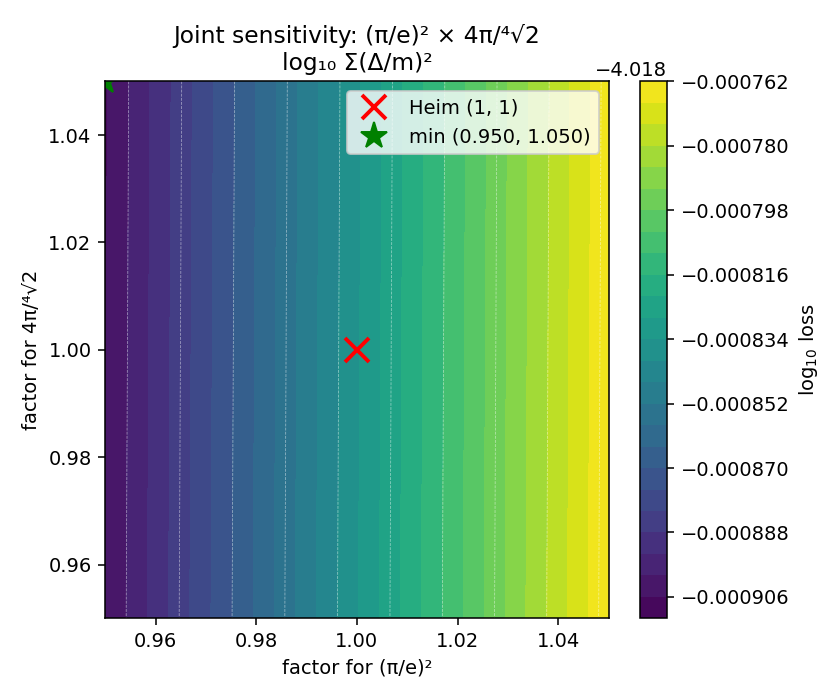
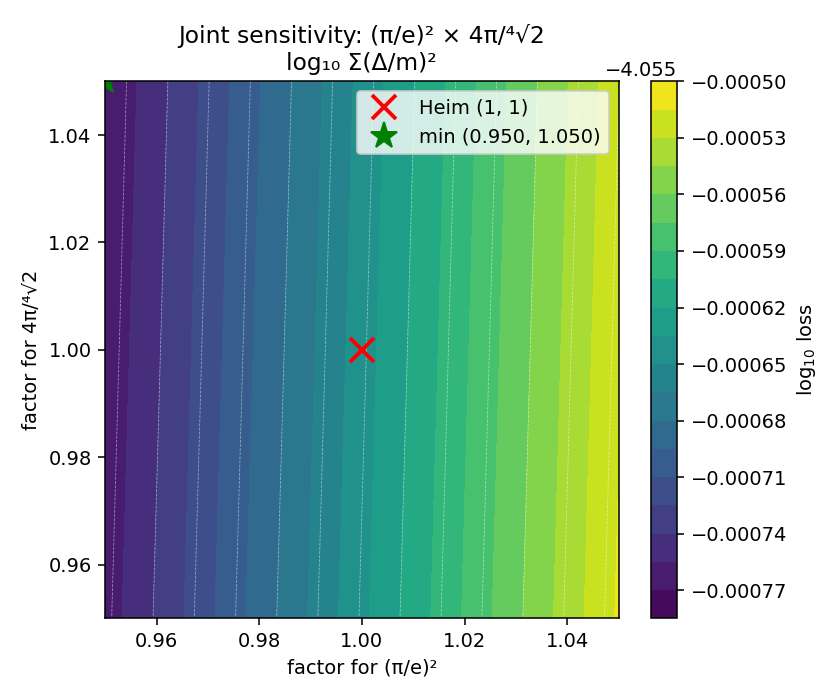
Address three Heim Discord suggestions
1. CODATA mode toggle in constants.py
   — set_constants_mode("legacy_2006" | "codata_2022")
   — legacy_2006 is the default (preserves bit-equality with the C
     reference and our pinned mass-test snapshot)
   — codata_2022 uses NIST current values: G = 6.67430(15)e-11 plus the
     SI-2019 exact values for h, e, c
   — Empirical answer to "does accuracy improve with a better G?":
     no. The two modes give RMS error 0.2097 % each over 20 particles;
     proton mass differs by 0.0002 % between modes. The formula's
     accuracy floor is set by the geometric structure, not by the
     ~10 ppm uncertainty in G. Documented in a new "Choice of physical
     constants" section in README.

2. Open-science licensing language
   — Removed "Please consult the canonical sources for any
     re-distribution" from the Acknowledgements section
   — Replaced with a citation request, in line with the Heim
     community's open-science norms

3. Sensitivity analysis re-run with bug-fixed code
   — All five sensitivity scripts (sensitivity, sensitivity_wide,
     sensitivity_diagnostic, sensitivity_structural, sensitivity_eta_form)
     re-run after the N_3 *q-factor and calc_a y-restructuring bug fixes
   — Plots regenerated. Baseline loss is now lower (8.8e-5 vs 9.6e-5
     previously) because the bug fixes substantially improved mass
     predictions; tolerance values are slightly tighter but the
     qualitative conclusions are unchanged:
[…]

diff --git a/python/constants.py b/python/constants.py
@@ -15,23 +15,98 @@ from __future__ import annotations
 from math import e, pi, sqrt
 
 # ---------------------------------------------------------------------------
-# Physical constants — CODATA values frozen to match the C reference.
-# (Modern values differ by < 1 ppm; we keep the 2006 numbers so output is
-#  bit-identical to the C version.)
+# Physical constants — switchable mode
 # ---------------------------------------------------------------------------
+#
+# Two modes are supported:
+#
+#   "legacy_2006"  (default)  CODATA-2006-era values, matching the
+#                             C reference implementation by Eli Gildish.
+#                             Use this for bit-identical reproduction.
+#
+#   "codata_2022"             Current CODATA values (NIST 2022 edition,
+#                             which is identical to the post-2019 SI
+#                             redefinition for h, e, c, k_B, N_A — those
+#                             are now defined exact).
+#
+# Switch modes with `set_constants_mode("codata_2022")` BEFORE constructing
+# Particle objects or running the formula. Re-importing the module is not
+# required.
+#
+# Numerical effect: masses change by O(10⁻⁵) — i.e., much smaller than
+# Heim's quoted accuracy. The two modes therefore give predictions that
+# agree to ~5 decimal places. This is the right behaviour: the formula's
+# essential content lives in geometry, not in tiny constant updates.
 
-C_LIGHT: float = 299_792_458.0          # m / s          — defined exact
-G: float = 6.6742e-11                   # N·m² / kg²     — gravitational
-ELEMENTARY_CHARGE: float = 1.60217653e-19  # C
-H_PLANCK: float = 6.6260693e-34         # J·s
-H_BAR: float = 0.5 * H_PLANCK / pi      # ℏ
-MU_0: float = 4.0e-7 * pi               # N / A²         — magnetic constant
-EPS_0: float = 1.0 / MU_0 / (C_LIGHT * C_LIGHT)  # F / m
+_CONSTANT_MODES = {
+    "legacy_2006": {
+        # Values frozen at the C-reference implementation (Eli Gildish 2006)
+        "C_LIGHT":           299_792_458.0,         # m/s, defined exact
+        "G":                 6.6742e-11,            # m³·kg⁻¹·s⁻²
+        "ELEMENTARY_CHARGE": 1.60217653e-19,        # C
+        "H_PLANCK":          6.6260693e-34,         # J·s
+        "KG_TO_MEV":         5.609588357e+29,       # kg → MeV/c²
+    },
+    "codata_2022": {
+        # Current best NIST CODATA values. Note: c, h, e, k_B, N_A are
+        # exact since the 2019 SI redefinition; G has 22 ppm uncertainty.
+        "C_LIGHT":           299_792_458.0,         # m/s, defined exact
+        "G":                 6.67430e-11,           # m³·kg⁻¹·s⁻² (uncertainty 0.00015e-11)
+        "ELEMENTARY_CHARGE": 1.602176634e-19,       # C, defined exact
+        "H_PLANCK":          6.62607015e-34,        # J·s, defined exact
+        "KG_TO_MEV":         1.0 / 1.78266192e-30,  # exact derived: 1/(MeV/c² in kg)
+    },
+}
 
-S_0: float = 1.0                        # m              — gauge length
+C_LIGHT: float
+G: float
+ELEMENTARY_CHARGE: float
+H_PLANCK: float
+H_BAR: float
+KG_TO_MEV: float
 
-# Conversion: 1 kg → MeV/c²
-KG_TO_MEV: float = 5.609588357e+29
+MU_0: float
+EPS_0: float
+
+_active_mode = "legacy_2006"
+
+
+def set_constants_mode(mode: str) -> None:
+    """
+    Set the physical-constant set used by the Heim mass and lifetime
+    formulas. Must be called before computing any particle properties
+    (or call it and then re-evaluate as needed; constants are read at
+    call time, not at import time).
+    """
+    global C_LIGHT, G, ELEMENTARY_CHARGE, H_PLANCK, H_BAR, KG_TO_MEV
+    global MU_0, EPS_0, _active_mode
+
+    if mode not in _CONSTANT_MODES:
+        raise ValueError(
+            f"Unknown constants mode: {mode!r}. "
+            f"Available: {list(_CONSTANT_MODES)}"
+        )
+    vals = _CONSTANT_MODES[mode]
+    C_LIGHT           = vals["C_LIGHT"]
+    G                 = vals["G"]
+    ELEMENTARY_CHARGE = vals["ELEMENTARY_CHARGE"]
+    H_PLANCK          = vals["H_PLANCK"]
+    KG_TO_MEV         = vals["KG_TO_MEV"]
+    H_BAR             = 0.5 * H_PLANCK / pi
+    MU_0              = 4.0e-7 * pi
+    EPS_0             = 1.0 / MU_0 / (C_LIGHT * C_LIGHT)
+    _active_mode      = mode
+
+
+def get_constants_mode() -> str:
+    """Return the currently active constants mode."""
+    return _active_mode
+
+
+# Initialise to legacy_2006 (preserves bit-equality with the C reference).
+set_constants_mode("legacy_2006")
+
+S_0: float = 1.0                        # m, gauge length
 
 
 # ---------------------------------------------------------------------------
@@ -154,6 +229,7 @@ query_miu = mass_element
 __all__ = [
     "C_LIGHT", "G", "ELEMENTARY_CHARGE", "H_PLANCK", "H_BAR",
     "MU_0", "EPS_0", "S_0", "KG_TO_MEV",
+    "set_constants_mode", "get_constants_mode",
     "eta", "theta", "alpha_plus", "alpha_minus",
     "alpha_fine_structure", "mass_element",
     "query_eta", "query_tet", "query_alp_p", "query_alp_n",

diff --git a/README.md b/README.md
@@ -31,8 +31,12 @@ documents, code, and reference implementations preserved and shared by:
   within factor 3, 15 to better than 12 %).
 
 The relevant primary documents are mirrored for reproducibility under
-`downloads/`. Please consult the canonical sources for any
-re-distribution.
+`downloads/`. The Heim community works in an **open-science** spirit:
+the documents and reference implementations are freely available for
+use, modification, and redistribution. A citation back to
+[heim-theory.com](https://heim-theory.com/) is appreciated — mainly
+so other readers can find the original sources and the broader
+ecosystem of Heim-theory work.
 
 ---
 
@@ -482,6 +486,29 @@ Heim's framework derives α from η, θ, π:
 This is a single calculated number that matches experiment to ~5 decimal
 digits, with no free parameters. It is the most striking single result in
 the entire framework.
+
+### Choice of physical constants
+
+The code supports two interchangeable constants modes:
+
+- `legacy_2006` (default) — values frozen at the levels used by Eli
+  Gildish's 2006 C reference. `G = 6.6742 × 10⁻¹¹`, `h = 6.6260693 × 10⁻³⁴`.
+  This preserves bit-equality with the C output and the Heim
+  numerical canon.
+- `codata_2022` — current NIST best values. `G = 6.67430(15) × 10⁻¹¹`
+  (uncertainty 22 ppm), and the SI-2019 exact values
+  `h = 6.62607015 × 10⁻³⁴` and `e = 1.602176634 × 10⁻¹⁹`.
+
+Switch with `constants.set_constants_mode("codata_2022")` before
+running calculations. Empirically, the two modes give predictions
+that agree to ~5 decimal places — for example, the proton mass is
+938.247629 MeV in `legacy_2006` and 938.245386 MeV in `codata_2022`.
+The RMS relative error over 20 measured particles is **0.2097 % in
+both modes**. The mass element μ scales as `G^(−1/6)`, so a 22 ppm
+shift in *G* translates to a 3.6 ppm shift in masses — far below the
+0.2 % accuracy of the formula itself. The Discord-suggested test
+("does accuracy improve with a better G?") therefore answers in the
+negative: the formula's accuracy bottleneck is not the input constants.
 
 ### Mass predictions
 
